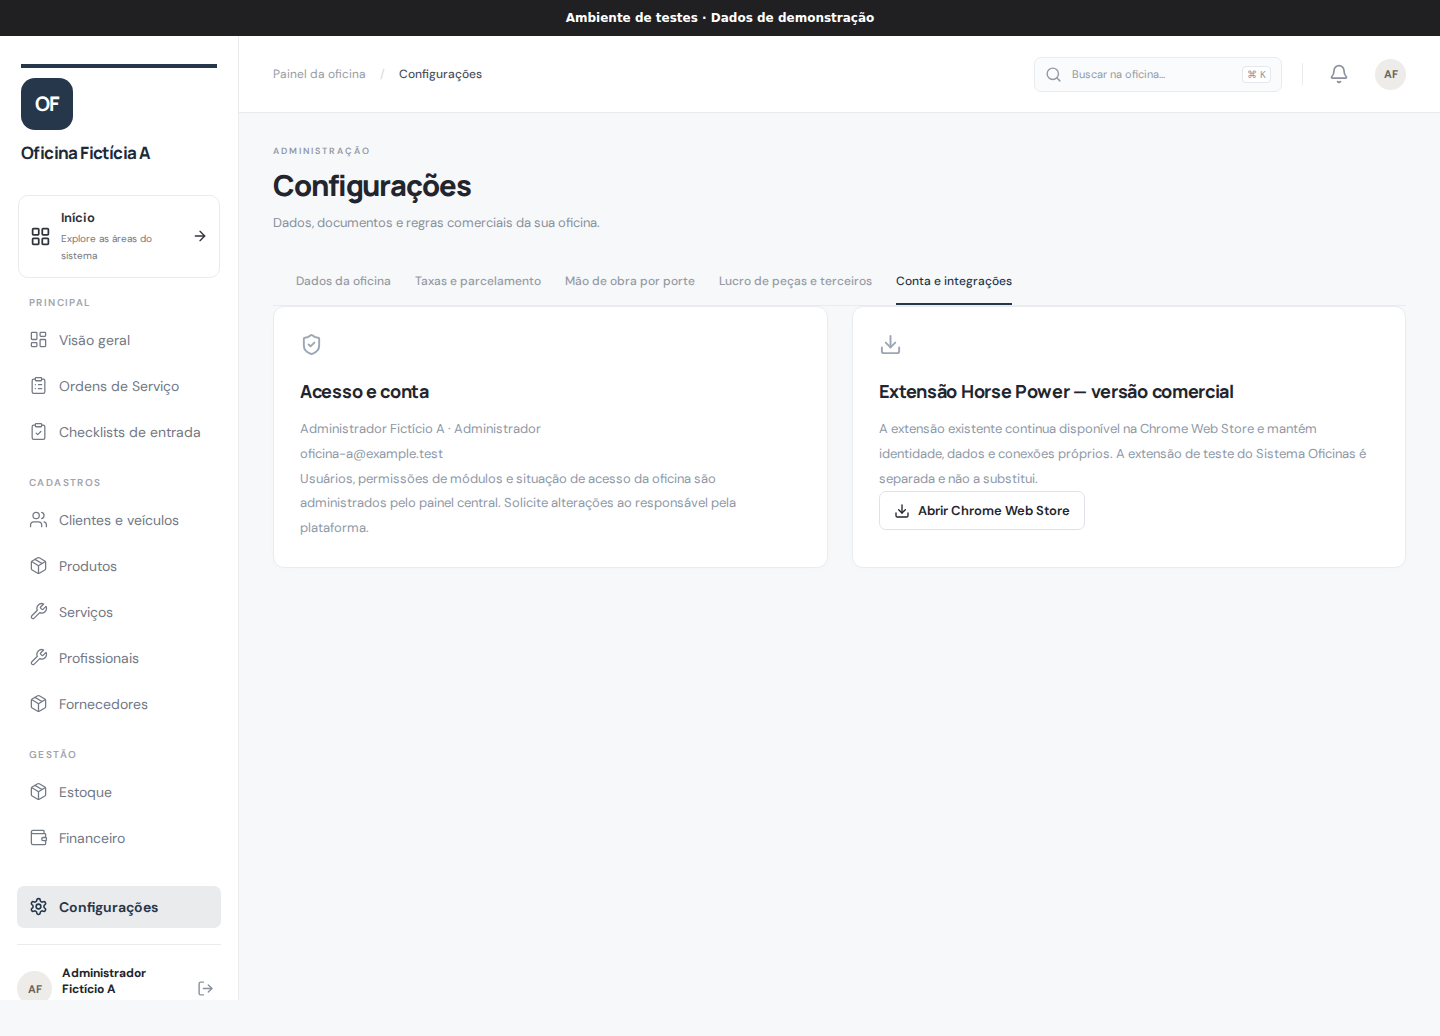
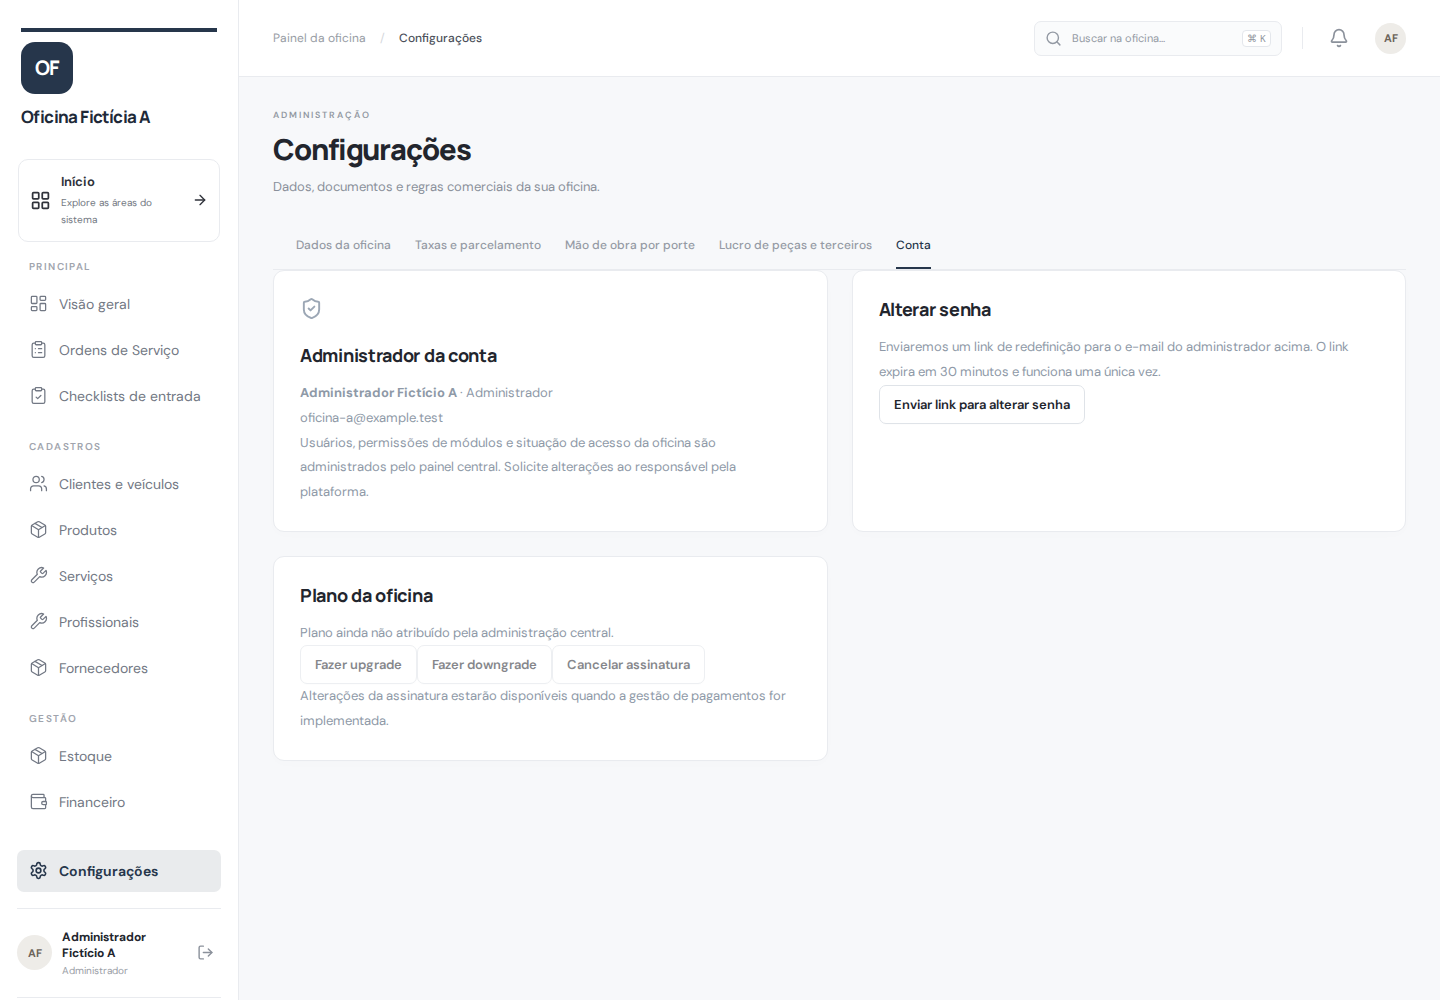
docs: atualizar capturas reais da aba Conta desktop e mobile

diff --git a/docs/mapeamento-visual/CHECKLIST.md b/docs/mapeamento-visual/CHECKLIST.md
@@ -125,8 +125,8 @@ Estados: capturada, pendente, bloqueada e não aplicável.
 | adm0021-oficina-convites-mobile | Painel Administrativo Central | Convites e ativação no celular — Interface real da ADM-002.1 em Chromium, com API fictícia interceptada; integração PostgreSQL validada separadamente. | [`capturas/17-painel-admin-central/adm0021-oficina-convites-mobile.png`](./capturas/17-painel-admin-central/adm0021-oficina-convites-mobile.png) | capturada | 2026-10-30 | fdbee764e0dfdcaeb7698131779d52a4a8a6a4a8 | Dados fictícios de navegador, sem credenciais, tokens ou acesso ao banco persistente. CI #273. |
 | adm0021-oficina-dados-mobile | Painel Administrativo Central | Dados gerais no celular — Interface real da ADM-002.1 em Chromium, com API fictícia interceptada; integração PostgreSQL validada separadamente. | [`capturas/17-painel-admin-central/adm0021-oficina-dados-mobile.png`](./capturas/17-painel-admin-central/adm0021-oficina-dados-mobile.png) | capturada | 2026-10-30 | fdbee764e0dfdcaeb7698131779d52a4a8a6a4a8 | Dados fictícios de navegador, sem credenciais, tokens ou acesso ao banco persistente. CI #273. |
 | adm0021-oficina-usuarios-desktop | Painel Administrativo Central | Proprietários e colaboradores — Interface real da ADM-002.1 em Chromium, com API fictícia interceptada; integração PostgreSQL validada separadamente. | [`capturas/17-painel-admin-central/adm0021-oficina-usuarios-desktop.png`](./capturas/17-painel-admin-central/adm0021-oficina-usuarios-desktop.png) | capturada | 2026-10-30 | fdbee764e0dfdcaeb7698131779d52a4a8a6a4a8 | Dados fictícios de navegador, sem credenciais, tokens ou acesso ao banco persistente. CI #273. |
-| config-conta-integracoes-desktop | Configurações da oficina | Conta e integrações — Responsabilidades administrativas e extensões disponíveis. | [`capturas/14-configuracoes/config-conta-integracoes-desktop.png`](./capturas/14-configuracoes/config-conta-integracoes-desktop.png) | capturada | 2026-11-01 | 56b226764ee6420a52bdff3a41bd459113618460 | — |
-| config-conta-integracoes-mobile | Configurações da oficina | Conta e integrações — Responsabilidades administrativas e extensões disponíveis. | [`capturas/14-configuracoes/config-conta-integracoes-mobile.png`](./capturas/14-configuracoes/config-conta-integracoes-mobile.png) | capturada | 2026-11-01 | 56b226764ee6420a52bdff3a41bd459113618460 | — |
+| config-conta-integracoes-desktop | Configurações da oficina | Conta da oficina — Administrador, alteração de senha por e-mail, plano contratado e ações de assinatura futuras. | [`capturas/14-configuracoes/config-conta-integracoes-desktop.png`](./capturas/14-configuracoes/config-conta-integracoes-desktop.png) | capturada | 2026-11-03 | f02307752aaf81e1b2d86b9974e444c660c44f3f | — |
+| config-conta-integracoes-mobile | Configurações da oficina | Conta da oficina — Administrador, alteração de senha por e-mail, plano contratado e ações de assinatura futuras. | [`capturas/14-configuracoes/config-conta-integracoes-mobile.png`](./capturas/14-configuracoes/config-conta-integracoes-mobile.png) | capturada | 2026-11-03 | f02307752aaf81e1b2d86b9974e444c660c44f3f | — |
 | ops002-machine-editor-desktop | Configurações da oficina | Máquina e taxas por parcela — Cadastro e edição de máquinas fictícias, taxa por modalidade/parcela e limite configurável. | [`capturas/14-configuracoes/ops002-machine-editor-desktop.png`](./capturas/14-configuracoes/ops002-machine-editor-desktop.png) | capturada | 2026-11-01 | 26770cc4da2ccbf9de3620882b0a87066fdce927 | — |
 | ops002-receipt-desktop | Financeiro | Recebimento com máquina e repasse — Plano fictício salvo e reaberto: seleção da máquina, repasse e líquido preservado, sem efetivar recebimento. | [`capturas/08-financeiro/ops002-receipt-desktop.png`](./capturas/08-financeiro/ops002-receipt-desktop.png) | capturada | 2026-11-01 | 26770cc4da2ccbf9de3620882b0a87066fdce927 | — |
 | ops002-machine-editor-mobile | Configurações da oficina | Máquina e taxas por parcela — Cadastro e edição de máquinas fictícias, taxa por modalidade/parcela e limite configurável. | [`capturas/14-configuracoes/ops002-machine-editor-mobile.png`](./capturas/14-configuracoes/ops002-machine-editor-mobile.png) | capturada | 2026-11-01 | 26770cc4da2ccbf9de3620882b0a87066fdce927 | — |

diff --git a/docs/mapeamento-visual/INDEX.md b/docs/mapeamento-visual/INDEX.md
@@ -582,21 +582,21 @@ Tabelas independentes com inclusão, edição, exclusão, limites inclusivos e s
 
 Estado: capturada · desktop · captura 2026-11-01 · commit de origem: f5768888f02977880ff9e976fa5fad6670796efd · [arquivo completo](./capturas/14-configuracoes/lucro-pecas-terceiros-desktop.png)
 
-### Conta e integrações
+### Conta da oficina
 
-Responsabilidades administrativas e extensões disponíveis.
+Administrador, alteração de senha por e-mail, plano contratado e ações de assinatura futuras.
 
-[![Conta e integrações](./capturas/14-configuracoes/config-conta-integracoes-desktop.png)](./capturas/14-configuracoes/config-conta-integracoes-desktop.png)
+[![Conta da oficina](./capturas/14-configuracoes/config-conta-integracoes-desktop.png)](./capturas/14-configuracoes/config-conta-integracoes-desktop.png)
 
-Estado: capturada · desktop · captura 2026-11-01 · commit de origem: 56b226764ee6420a52bdff3a41bd459113618460 · [arquivo completo](./capturas/14-configuracoes/config-conta-integracoes-desktop.png)
+Estado: capturada · desktop · captura 2026-11-03 · commit de origem: f02307752aaf81e1b2d86b9974e444c660c44f3f · [arquivo completo](./capturas/14-configuracoes/config-conta-integracoes-desktop.png)
 
-### Conta e integrações
+### Conta da oficina
 
-Responsabilidades administrativas e extensões disponíveis.
+Administrador, alteração de senha por e-mail, plano contratado e ações de assinatura futuras.
 
-[![Conta e integrações](./capturas/14-configuracoes/config-conta-integracoes-mobile.png)](./capturas/14-configuracoes/config-conta-integracoes-mobile.png)
+[![Conta da oficina](./capturas/14-configuracoes/config-conta-integracoes-mobile.png)](./capturas/14-configuracoes/config-conta-integracoes-mobile.png)
 
-Estado: capturada · mobile · captura 2026-11-01 · commit de origem: 56b226764ee6420a52bdff3a41bd459113618460 · [arquivo completo](./capturas/14-configuracoes/config-conta-integracoes-mobile.png)
+Estado: capturada · mobile · captura 2026-11-03 · commit de origem: f02307752aaf81e1b2d86b9974e444c660c44f3f · [arquivo completo](./capturas/14-configuracoes/config-conta-integracoes-mobile.png)
 
 ### Máquina e taxas por parcela
 
